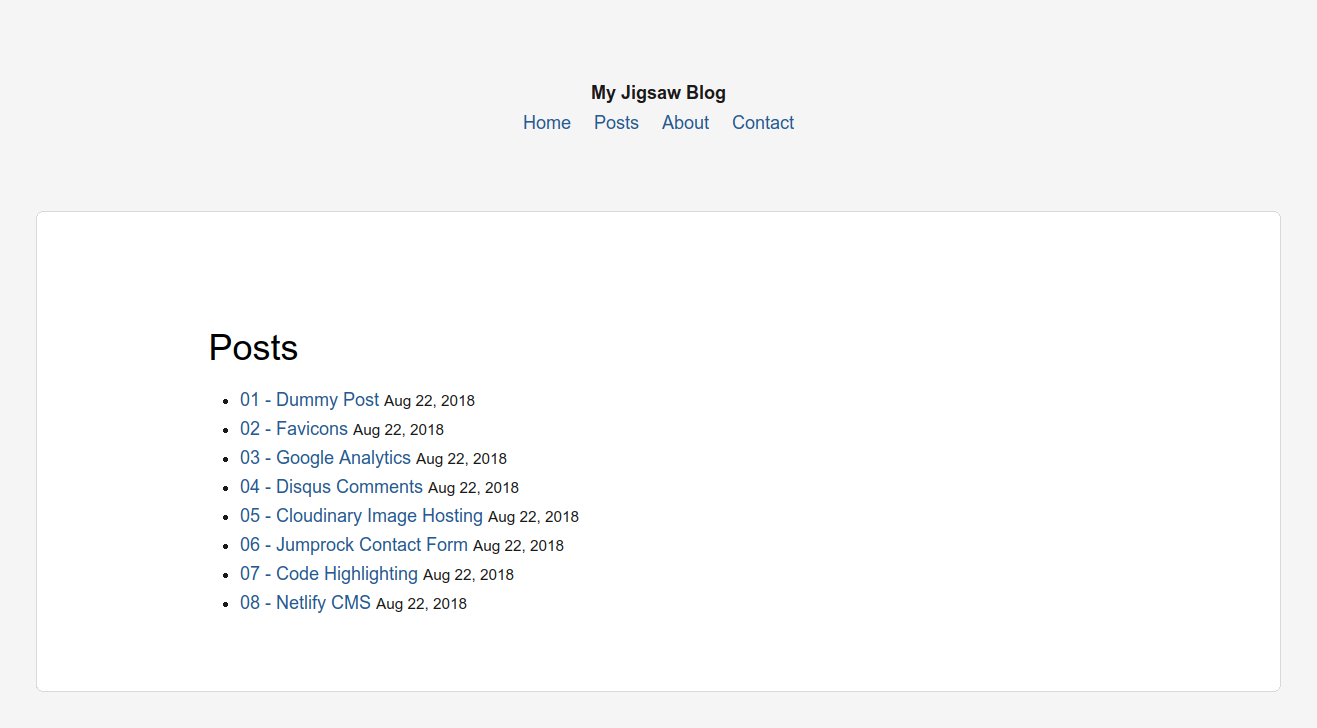
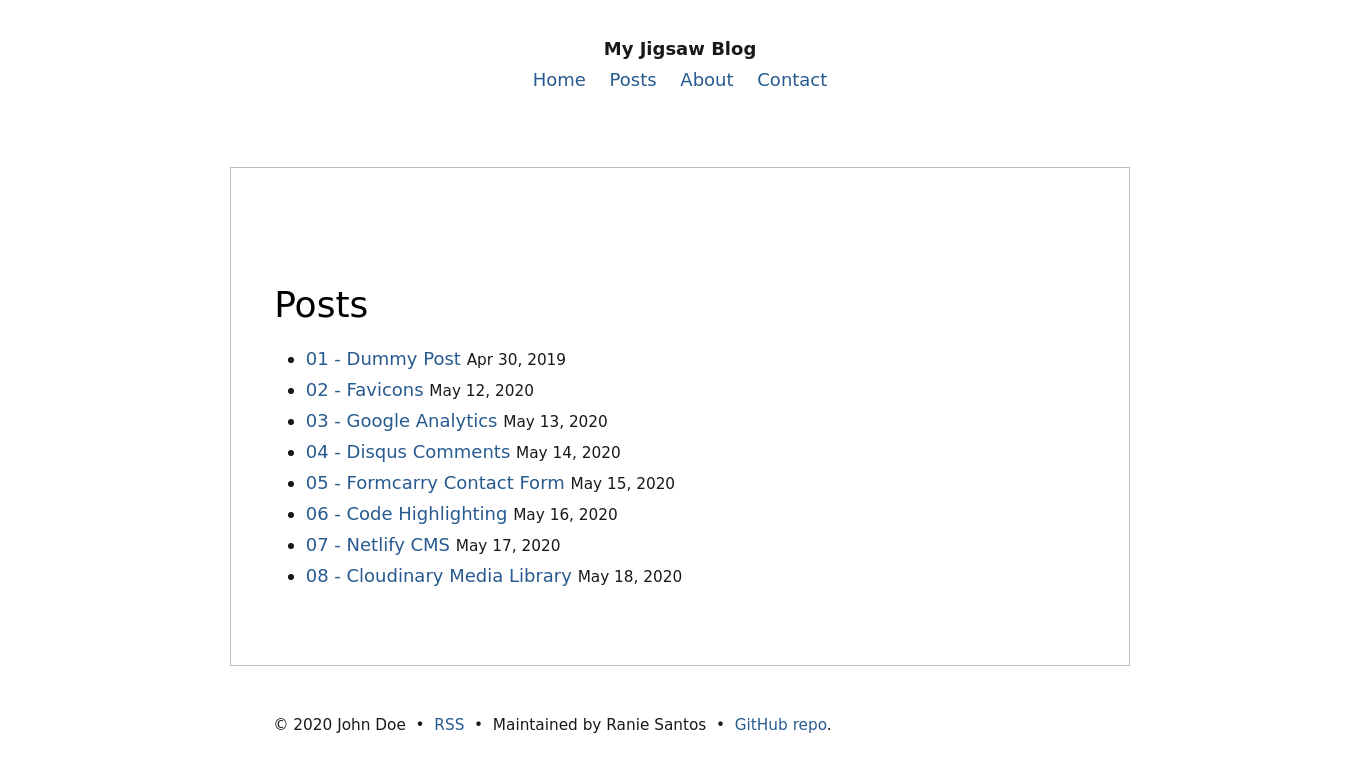
Update Artisan Static details and image (#99)
* Update artisan-static.md

* Update artisan-static.md

* Update artisan-static.md

* Update artisan-static.png

* Update artisan-static.png

* Update artisan-static.png

* Use screenshot of different page

* Update artisan-static.md

* Update preview

* Delete artisan-static-netlify-template.png

* fix filename

diff --git a/src/site/template/artisan-static.md b/src/site/template/artisan-static.md
@@ -3,7 +3,7 @@ title: Artisan Static
 repo: https://github.com/raniesantos/artisan-static
 stack: cms
 preview: artisan-static.png
-example: https://artisan-static-demo.netlify.com/
+example: https://artisanstatic.netlify.app/
 tags:
   - jigsaw
   - blog
@@ -11,6 +11,8 @@ tags:
   - PHP
 ---
 
-An advanced starter template for building a static Jigsaw blog hosted on Netlify with analytics, comments, code highlighting, a contact form, a CMS, and more.
+[Artisan Static](https://artisanstatic.netlify.app) is a starter template for building a static Jigsaw blog hosted on Netlify.
 
-This template has extremely minimal CSS.
+This comes with code highlighting, share buttons, comments, analytics, an RSS feed, a contact form, a CMS and more.
+
+The HTML, CSS and JavaScript in this template are extremely minimal, which makes the code easy to build on top of or replace completely.
